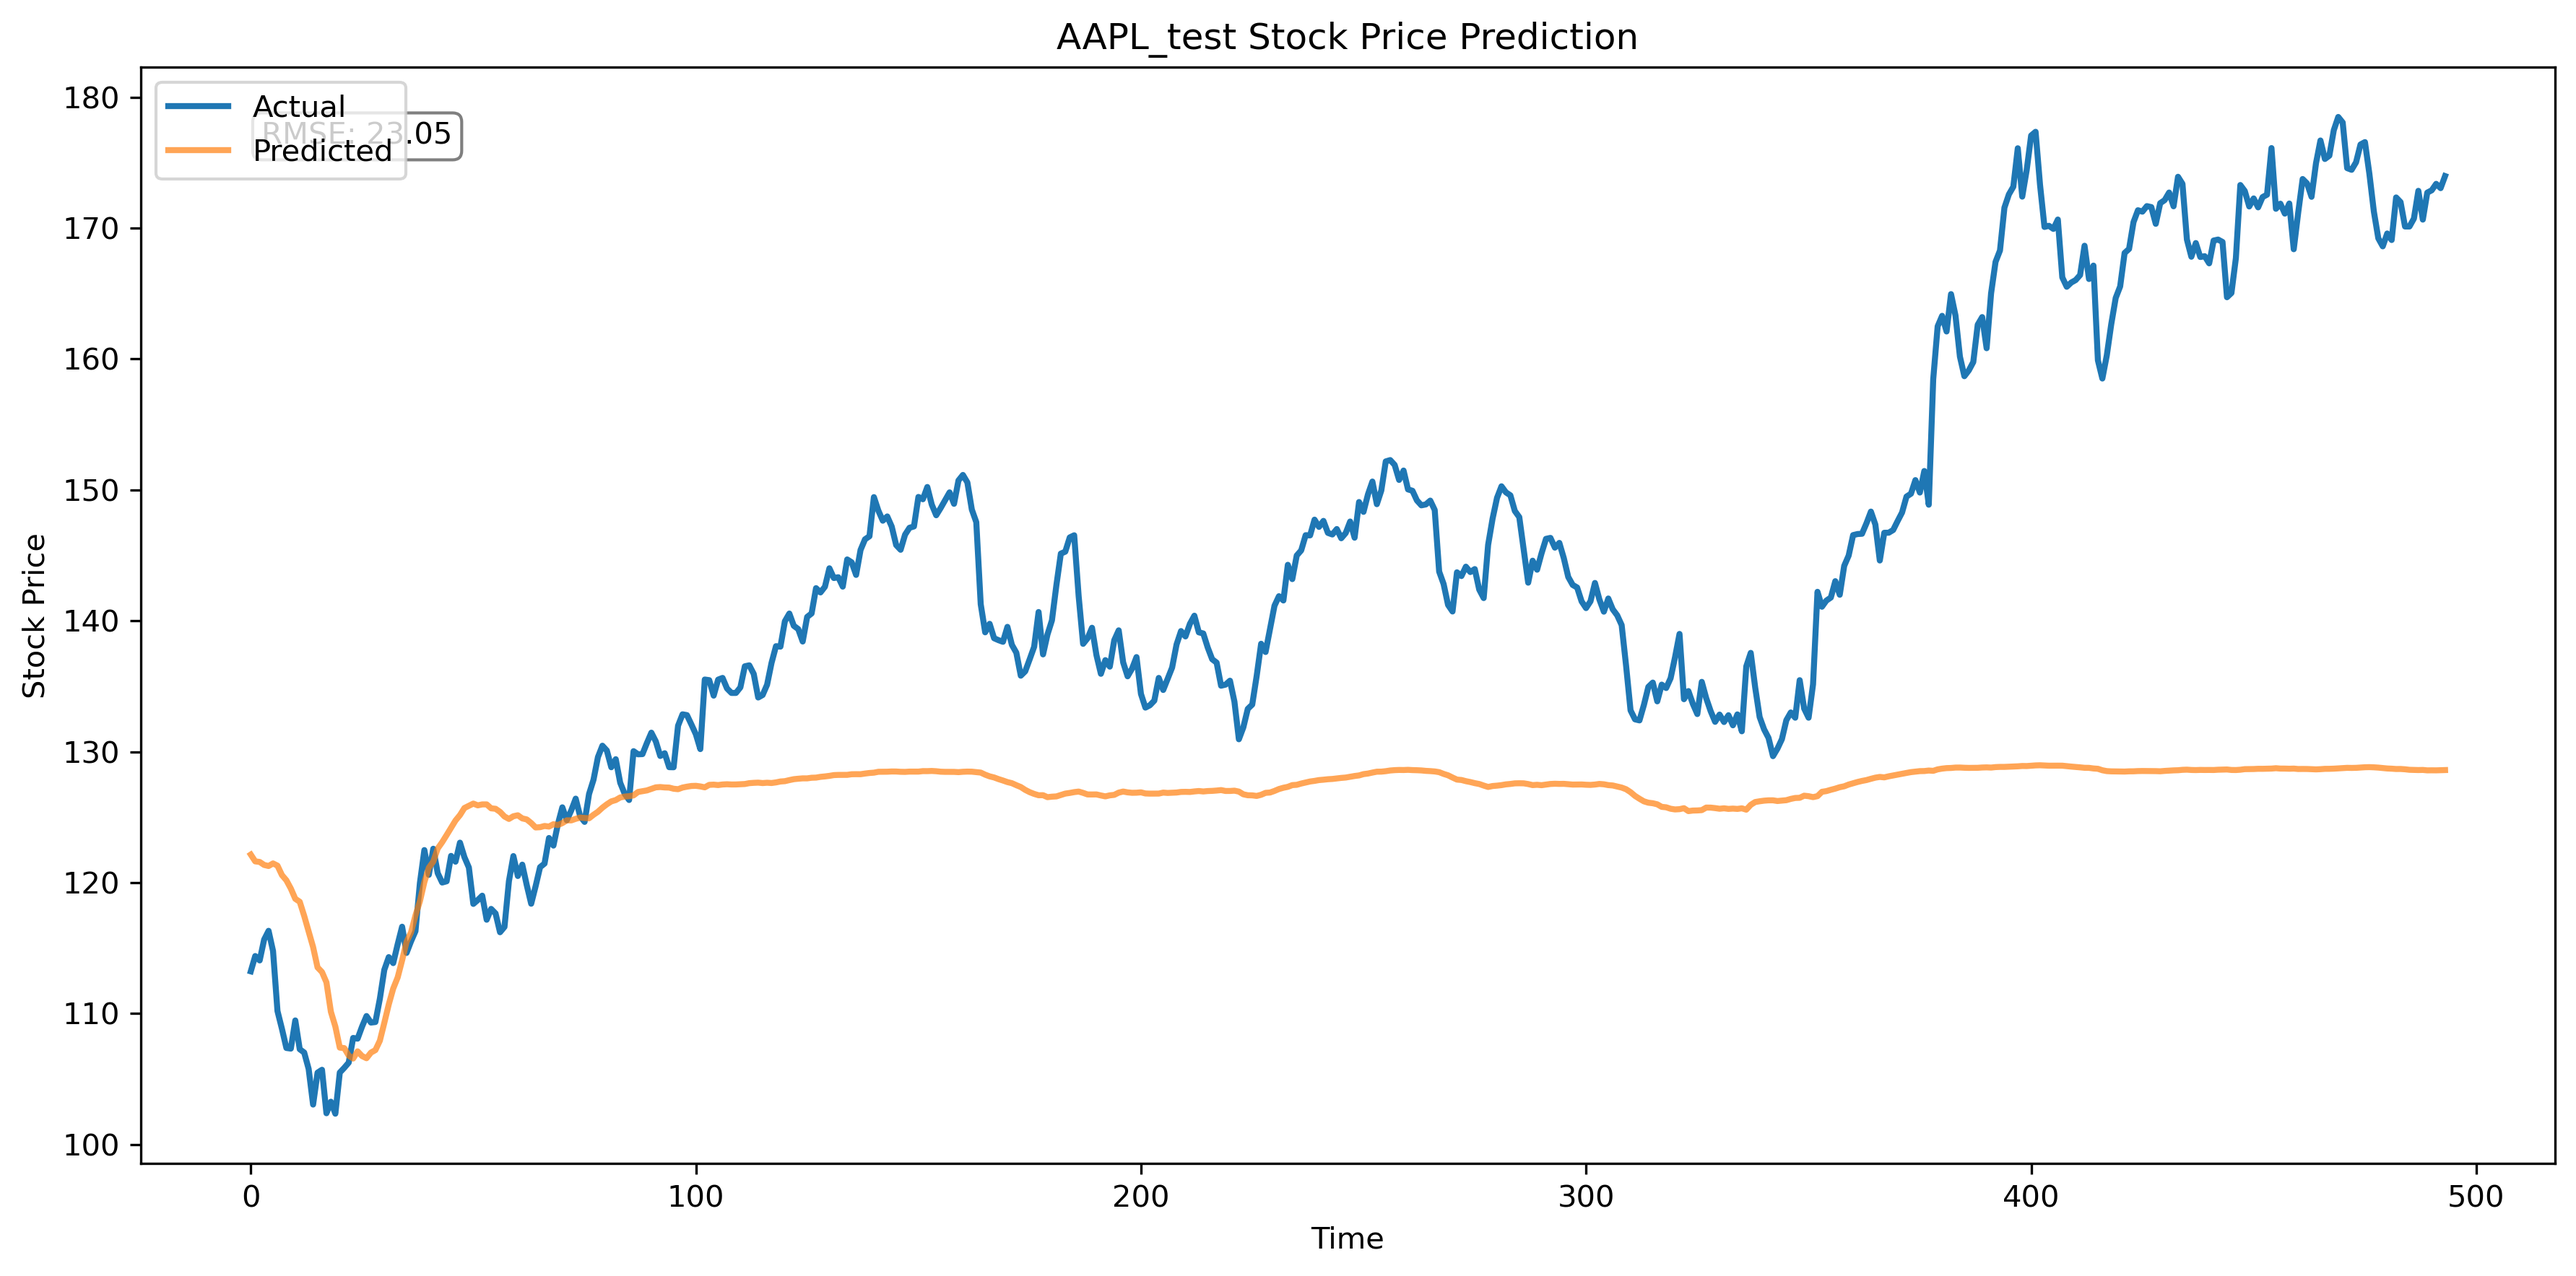
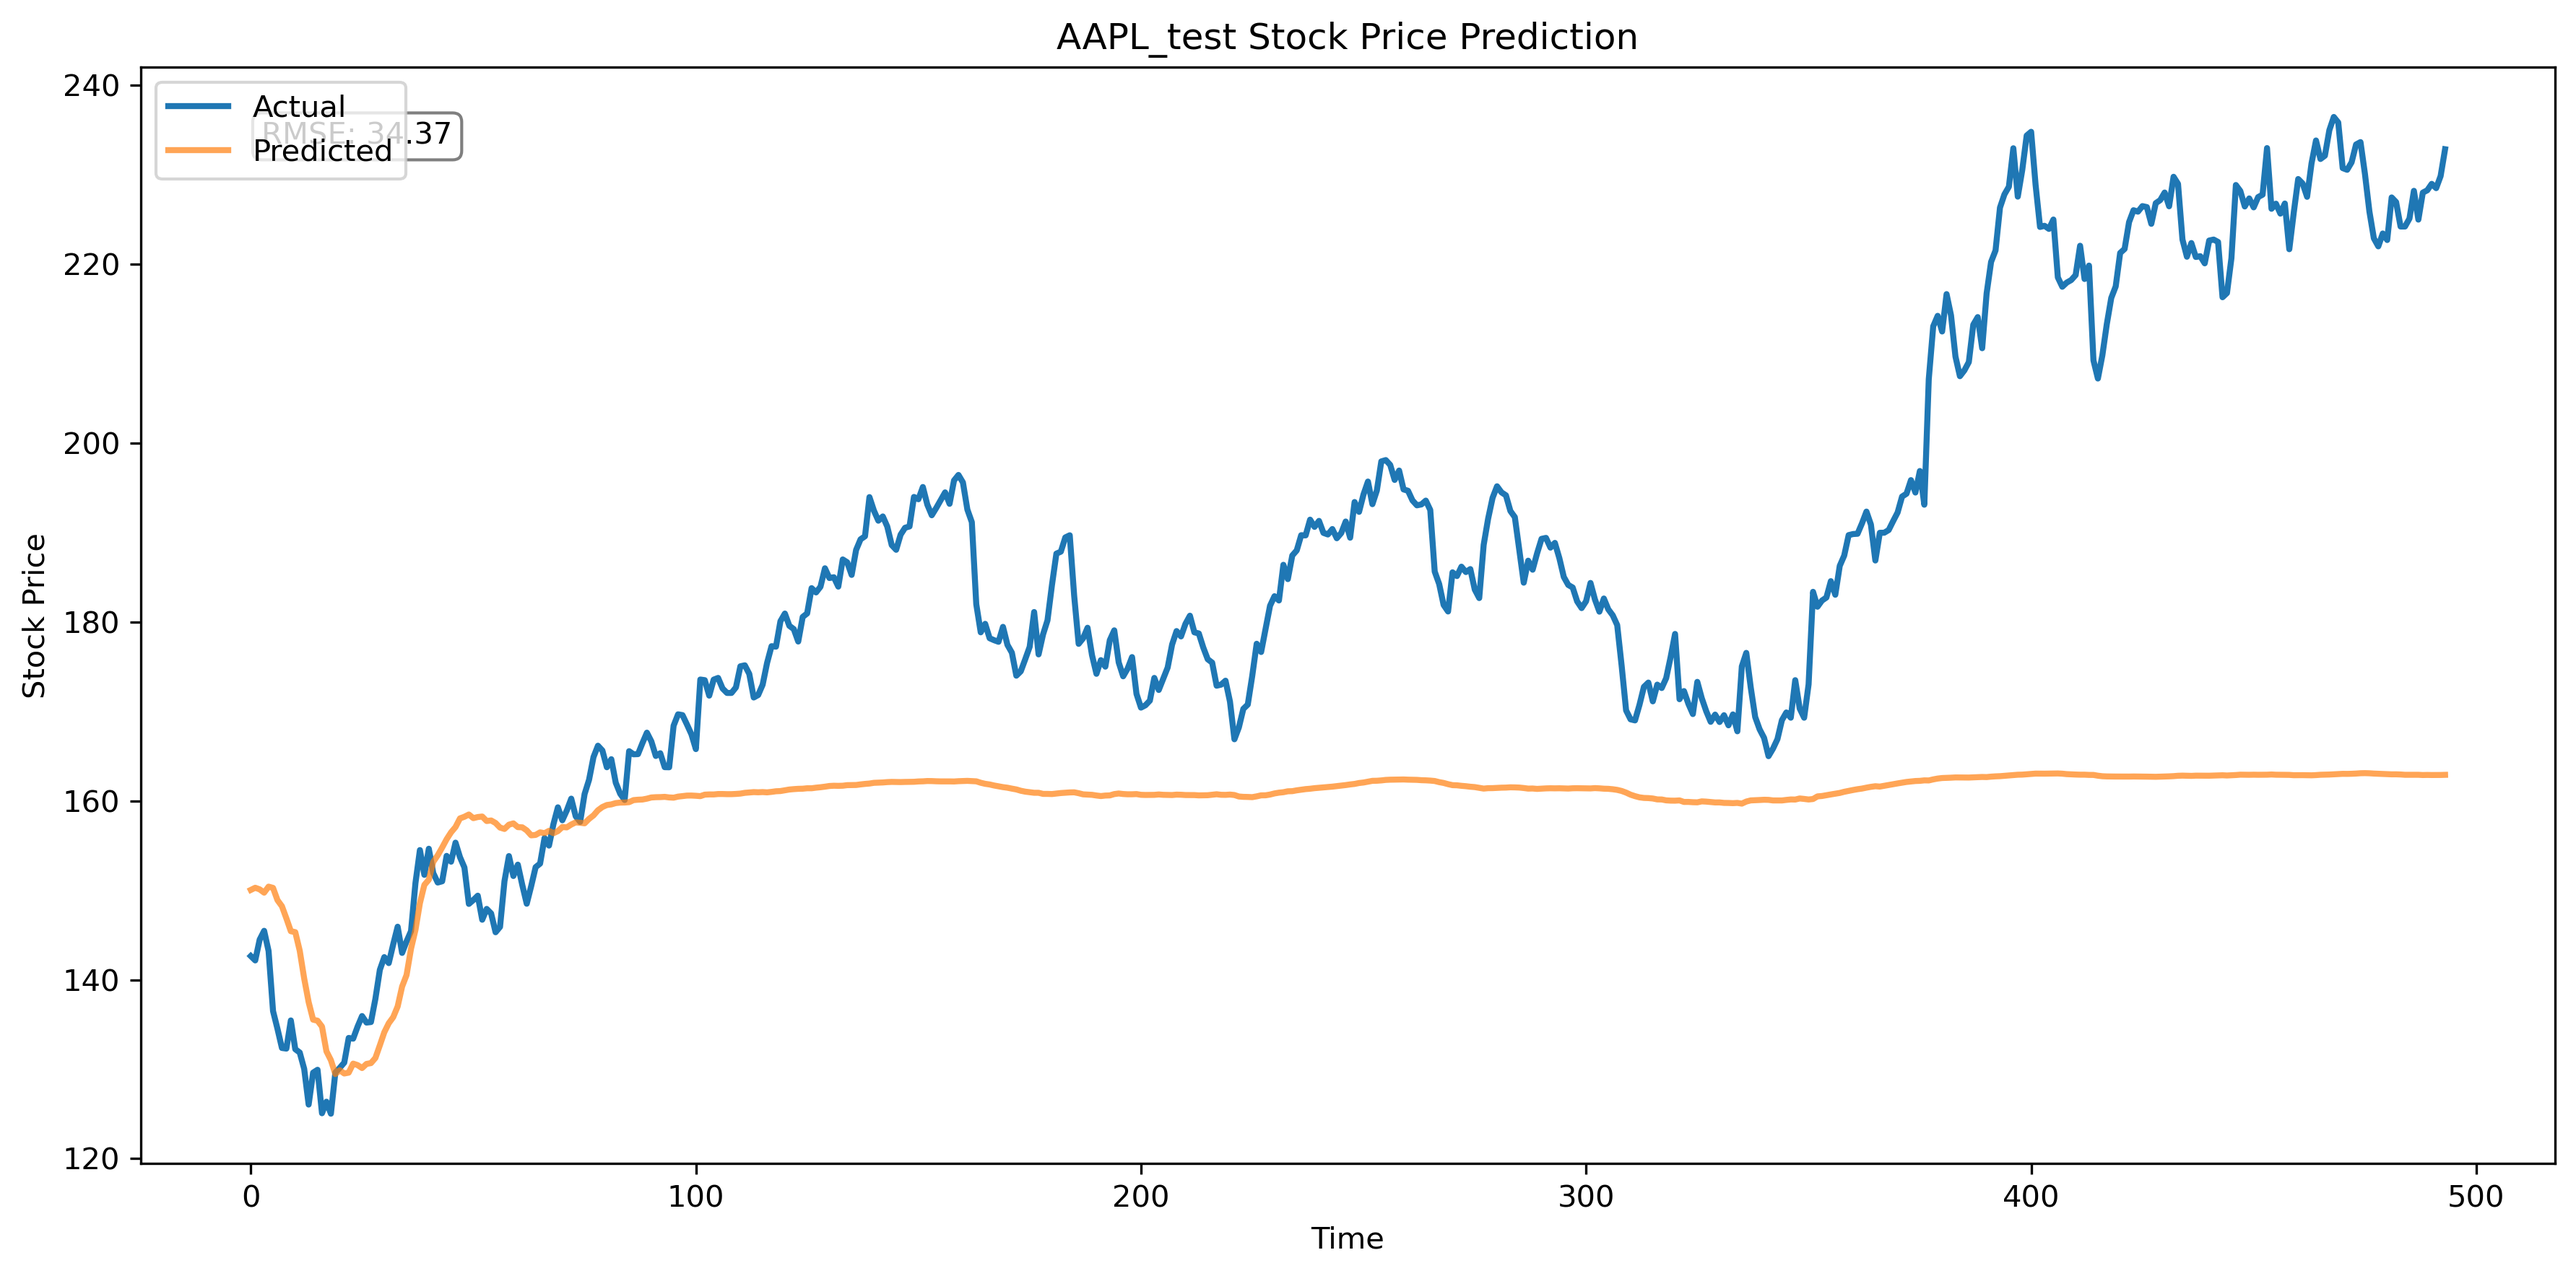
reducing overfitting?? and updating website

diff --git a/templates/index.html b/templates/index.html
@@ -1,22 +1,42 @@
 <!DOCTYPE html>
-<html>
-  <head>
+<html lang="en">
+<head>
     <meta charset="UTF-8">
+    <meta name="viewport" content="width=device-width, initial-scale=1.0">
     <title>Stock Analysis Model</title>
     <link rel="stylesheet" href="{{ url_for('static', filename='styles.css') }}">
-  </head>
-
-  <body>
-    <div class="grid">
-      <h1>Stock Analysis</h1>
-      <div class="graph-container">
-        {% for graph in graphs %}
-        <div class="box">
-          <h2>{{ graph.title }}</h2>
-          <img src="{{ url_for('static', filename=graph.filename) }}" alt="{{ graph.title }} Stock predictions" class="stock-predictions">
-        </div>
-        {% endfor %}
-      </div>
-    </div>
-  </body>
+    <script src="https://cdn.jsdelivr.net/npm/chart.js"></script>
+</head>
+<body>
+    <header>
+        <h1>Stock Analysis and Prediction</h1>
+    </header>
+    <main class="container">
+        <section class="model-input">
+            <h2>Enter Stock Details</h2>
+            <form id="stock-form">
+                <input type="text" id="stock-symbol" placeholder="Stock Symbol (e.g., AAPL)" required>
+                <input type="date" id="start-date" required>
+                <input type="date" id="end-date" required>
+                <button type="submit">Analyze</button>
+            </form>
+        </section>
+        <section class="results">
+            <h2>Analysis Results</h2>
+            <div id="prediction-result"></div>
+            <div class="graph-container">
+                {% for graph in graphs %}
+                <div class="box">
+                    <h3>{{ graph.title }}</h3>
+                    <canvas id="chart-{{ loop.index }}" width="400" height="200"></canvas>
+                </div>
+                {% endfor %}
+            </div>
+        </section>
+    </main>
+    <footer>
+        <p>&copy; 2023 Stock Analysis Project. All rights reserved.</p>
+    </footer>
+    <script src="{{ url_for('static', filename='script.js') }}"></script>
+</body>
 </html>

diff --git a/script.js b/script.js
@@ -1,0 +1,31 @@
+document.addEventListener('DOMContentLoaded', function() {
+    const form = document.getElementById('stock-form');
+    form.addEventListener('submit', function(e) {
+        e.preventDefault();
+        const symbol = document.getElementById('stock-symbol').value;
+        const startDate = document.getElementById('start-date').value;
+        const endDate = document.getElementById('end-date').value;
+        
+        // Send data to backend
+        fetch('/predict', {
+            method: 'POST',
+            headers: {
+                'Content-Type': 'application/json',
+            },
+            body: JSON.stringify({ symbol, startDate, endDate }),
+        })
+        .then(response => response.json())
+        .then(data => {
+            // Update prediction result
+            document.getElementById('prediction-result').textContent = `Prediction: ${data.prediction}`;
+            
+            // Update charts
+            updateCharts(data.chartData);
+        });
+    });
+});
+
+function updateCharts(chartData) {
+    // Implement chart updates using Chart.js
+    // This will depend on the structure of your chartData
+}

diff --git a/app.py b/app.py
@@ -1,6 +1,6 @@
-from flask import Flask, request, render_template
+from flask import Flask, request, render_template, jsonify
 from tensorflow.keras.models import load_model
-import os
+import numpy as np
 
 app = Flask(__name__)
 
@@ -8,19 +8,27 @@ model = load_model('best_stock_model.h5')
 
 @app.route("/")
 def home():
-    # Get all PNG files in the static folder
-    static_folder = os.path.join(app.root_path, 'static')
-    graph_files = [f for f in os.listdir(static_folder) if f.endswith('_test_prediction.png')]
-    
-    # Create a list of dictionaries containing information about each graph
     graphs = [
-        {
-            'title': f.split('_')[0],  # Assumes filename format is "STOCKSYMBOL_test_prediction.png"
-            'filename': f
-        } for f in graph_files
+        {"title": "Stock Price Prediction", "filename": "stock_prediction.png"},
+        {"title": "Stock Price History", "filename": "stock_history.png"}
     ]
-    
     return render_template("index.html", graphs=graphs)
+
+@app.route("/predict", methods=['POST'])
+def predict():
+    data = request.json
+    # Process the input data and use your model to make predictions
+    # This is a placeholder implementation
+    prediction = model.predict(np.array([[0, 0, 0, 0]]))  # Replace with actual input data
+    
+    # Generate chart data (placeholder)
+    chart_data = {
+        "labels": ["Day 1", "Day 2", "Day 3", "Day 4", "Day 5"],
+        "actual": [100, 102, 98, 103, 105],
+        "predicted": [101, 103, 99, 102, 104]
+    }
+    
+    return jsonify({"prediction": float(prediction[0][0]), "chartData": chart_data})
 
 if __name__ == "__main__":
     app.run(debug=True, port=5001)

diff --git a/train.py b/train.py
@@ -19,6 +19,7 @@ import joblib
 import os
 from skopt import BayesSearchCV
 from skopt.space import Real, Integer
+from scipy.interpolate import interp1d
 
 
 
@@ -125,7 +126,7 @@ def create_complex_model(units=64, learning_rate=0.001, dropout_rate=0.2, l2_reg
 
 
 
-def create_model(units=64, learning_rate=0.001, dropout_rate=0.2, l2_reg=0.01):
+def create_model(units=64, learning_rate=0.001, dropout_rate=0.2, l2_reg=0.05):
     inputs = Input(shape=(shape[0], shape[1]))
     
     # First LSTM layer with L2 regularization
@@ -192,7 +193,7 @@ def create_or_load_model(MODEL_FILE, PARAMS_FILE, shape, bayesian=False):
             'units': 64,
             'learning_rate': 0.001,
             'dropout_rate': 0.4,
-            'l2_reg': 0.04
+            'l2_reg': 0.1
         }
         print("No existing model found. Using default parameters...")
         best_params = default_params
@@ -251,7 +252,7 @@ def plot_learning_curves(history, stock):
 
 
 # data processing
-tech_list = ['AAPL', 'GOOG']  #'MSFT', 'AMZN'
+tech_list = ['AAPL']  #'MSFT', 'AMZN'
 x_train, y_train, x_test, y_test, shape, scaler = dataprocessing(tech_list)
 
 # model building
@@ -263,7 +264,7 @@ bayesian = False
 
 best_model, best_params = create_or_load_model(MODEL_FILE, PARAMS_FILE, shape, bayesian)
 
-early_stop = EarlyStopping(monitor='val_loss', patience=30, restore_best_weights=True)
+early_stop = EarlyStopping(monitor='val_loss', patience=20, restore_best_weights=True)
 
 for stock in tech_list:
     history = best_model.fit(x_train[stock], y_train[stock], 
